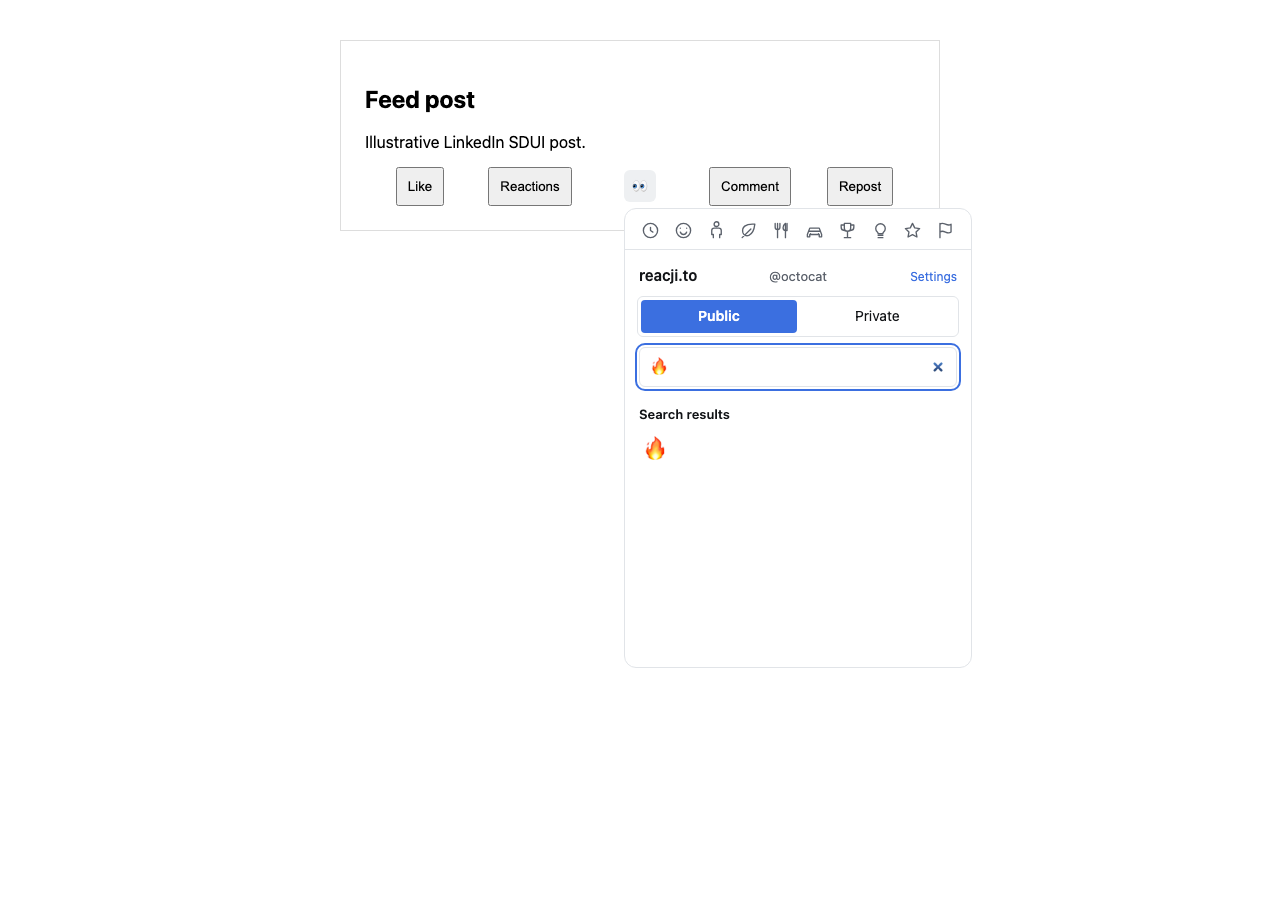
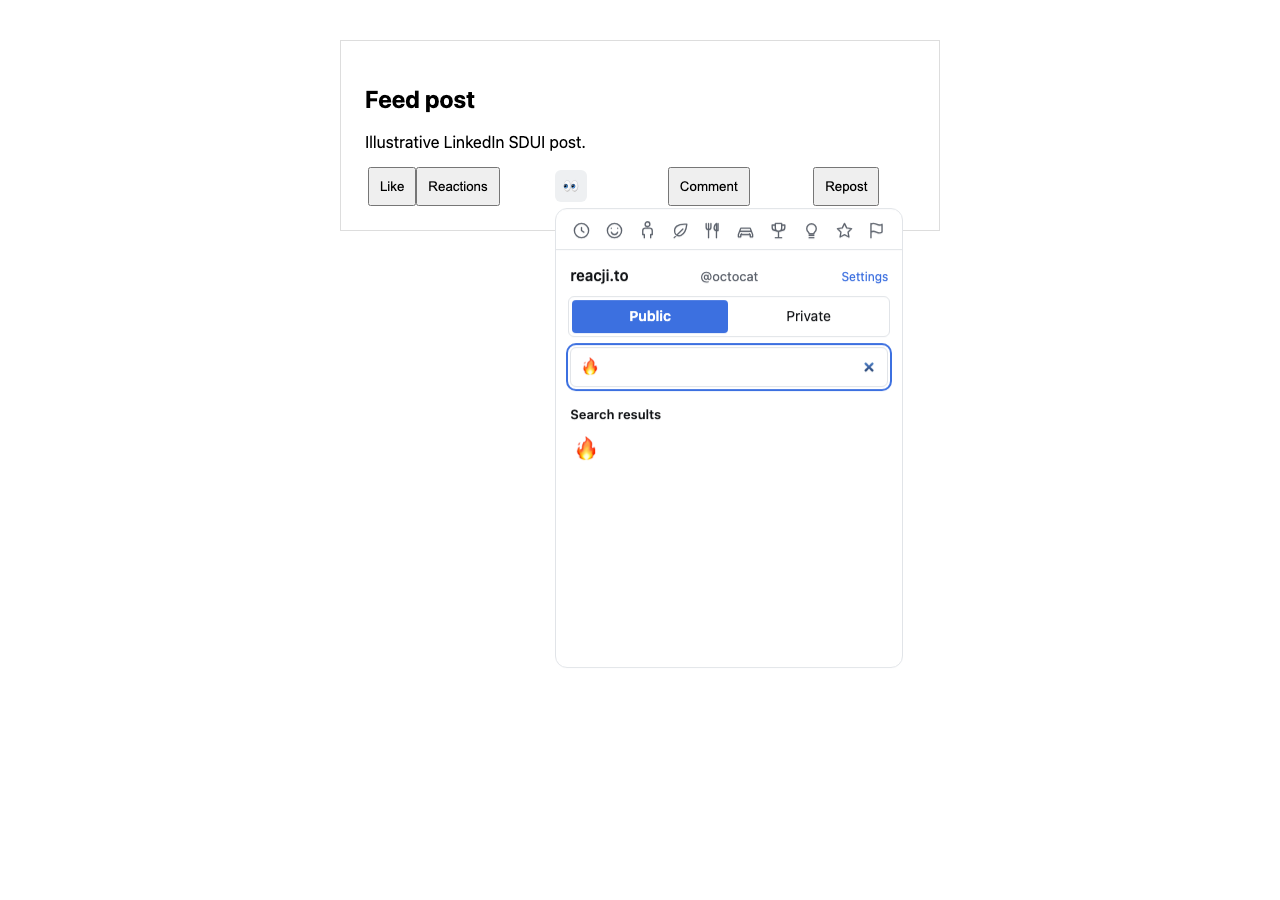
Release 0.4.3 with public reaction mirrors and LinkedIn alignment

diff --git a/tests/browser/oauth.spec.js b/tests/browser/oauth.spec.js
@@ -16,6 +16,7 @@ test('real extension completes device OAuth, resumes after reload, and submits w
   const oauthRequests = [], submissions = [];
   let siteUsername = 'octocat';
   let approved = false;
+  let mirrorFails = false;
   try {
     await context.route('https://github.com/**', route => {
       const url = new URL(route.request().url());
@@ -53,7 +54,8 @@ test('real extension completes device OAuth, resumes after reload, and submits w
       if (path === '/v1/private/validate') return route.fulfill({ json: { actor: { id: 42, login: 'octocat' }, repository: { name: body.repository } } });
       if (path === '/v1/private/read') return route.fulfill({ json: { version: 1, commit: body.commit, users: {} } });
       submissions.push(body);
-      return route.fulfill({ json: { actor: { id: 42, login: 'octocat' }, document: { version: 1, commit: body.event.commit, users: { 42: { login: 'octocat', emoji: body.event.emoji } } } } });
+      return route.fulfill({ json: { actor: { id: 42, login: 'octocat' }, document: { version: 1, commit: body.event.commit, users: { 42: { login: 'octocat', emoji: body.event.emoji } } },
+        ...(mirrorFails && body.visibility === 'public' && body.mirrorPublic ? { mirror: { status: 'failed', error: 'Public reaction saved, but its private-repo copy failed. Check settings.' } } : {}) } });
     });
     await context.route('https://raw.githubusercontent.com/**', route => route.fulfill({ status: 404, body: '' }));
     await context.route('https://dev-null.sh/**', route => new URL(route.request().url()).pathname === '/@octocat/following' ? route.fulfill({contentType:'text/html',body:`<script data-page="app" type="application/json">${JSON.stringify({component:'user/connections',props:{type:'following',user:{username:'octocat'},users:{data:[{username:'friend',avatar_url:'https://avatars.githubusercontent.com/u/99?v=4'}],next_page_url:null}}})}</script>`}) : route.request().headers()['x-inertia'] ? route.fulfill({ json: { props: { auth: { user: siteUsername ? { username: siteUsername } : null } } } }) : route.fulfill({ path: 'fixtures/feed.html', contentType: 'text/html' }));
@@ -108,6 +110,8 @@ test('real extension completes device OAuth, resumes after reload, and submits w
     await page.getByRole('searchbox').press('Escape');
     expect(submissions[0].event.emoji).toBe('🚀');
     expect(submissions[0].visibility).toBe('public');
+    expect(submissions[0].mirrorPublic).toBe(true);
+    expect(submissions[0].repository).toBeUndefined();
     expect(oauthRequests.filter(value => value === '/login/device/code')).toHaveLength(1);
     // Site sign-out and account changes must be checked again immediately before every mutation.
     siteUsername = 'other';
@@ -126,6 +130,13 @@ test('real extension completes device OAuth, resumes after reload, and submits w
     await page.getByLabel('Private repository').selectOption('octocat/reacji-to-private');
     await page.getByRole('button', { name: 'Use this repository', exact: true }).click();
     await expect(page.getByText('Private reactions are ready.', { exact: false })).toBeVisible();
+    await expect(page.locator('#mirror-public')).toBeChecked();
+    await expect(page.locator('#mirror-status')).toContainText('public/');
+    await page.locator('#private-setup').screenshot({ path: '.impeccable/review/mirror-settings-desktop.png' });
+    await page.setViewportSize({ width: 390, height: 844 });
+    expect(await page.evaluate(() => document.documentElement.scrollWidth)).toBeLessThanOrEqual(390);
+    await page.locator('#private-setup').screenshot({ path: '.impeccable/review/mirror-settings-mobile.png' });
+    await page.setViewportSize({ width: 1280, height: 900 });
     await page.goto('https://dev-null.sh/');
     await unreactedPost.getByRole('button', { name: 'React with an emoji', exact: true }).click();
     await page.getByRole('button', { name: 'Private', exact: true }).click();
@@ -134,15 +145,34 @@ test('real extension completes device OAuth, resumes after reload, and submits w
     await expect.poll(()=>submissions.length).toBe(2);
     expect(submissions[1].repository).toBe('octocat/reacji-to-private');
     expect(submissions[1].visibility).toBe('private');
+    expect(submissions[1].mirrorPublic).toBeUndefined();
     await context.route('https://x.com/**', route => route.fulfill({ contentType: 'text/html', body: '<meta charset="utf-8"><article data-testid="tweet"><a href="/person/status/123456789"><time>Today</time></a><div role="group"><button data-testid="reply">Reply</button><button data-testid="like">Like</button></div></article>' }));
     siteUsername = null; // X reactions must not require a dev-null session.
+    mirrorFails = true;
     await page.goto('https://x.com/home');
     await page.getByRole('button', { name: 'React with an emoji', exact: true }).click();
+    await page.getByRole('button', { name: 'Public', exact: true }).click();
     await page.getByRole('searchbox').fill('🚀'); await page.getByRole('button', { name: 'rocket', exact: true }).click();
     await expect(page.getByRole('button', { name: /🚀, 1 reaction, yours/ })).toBeVisible();
     await expect.poll(()=>submissions.length).toBe(3);
     expect(submissions[2].event.post).toEqual({ platform: 'x', id: '123456789' });
     expect(submissions[2].username).toBeUndefined();
+    expect(submissions[2].repository).toBe('octocat/reacji-to-private');
+    expect(submissions[2].mirrorPublic).toBe(true);
+    await expect(page.getByText('Public reaction saved, but its private-repo copy failed. Check settings.', { exact: true })).toBeVisible();
+    await expect(page.getByRole('button', { name: /🚀, 1 reaction, yours/ })).toBeVisible();
+    await page.goto(url);
+    await expect(page.locator('#mirror-status')).toContainText('private-repo copy failed');
+    await page.locator('#mirror-public').uncheck();
+    await expect(page.locator('#mirror-status')).toContainText('Mirroring is off');
+    await page.reload();
+    await expect(page.locator('#mirror-public')).not.toBeChecked();
+    await page.goto('https://x.com/home');
+    await page.getByRole('button', { name: /🚀, 1 reaction, yours/ }).click();
+    await expect.poll(() => submissions.length).toBe(4);
+    expect(submissions[3].mirrorPublic).toBe(false);
+    expect(submissions[3].event.emoji).toBeNull();
+    expect(await worker.evaluate(async () => (await chrome.storage.local.get('mirrorPublicPreferences')).mirrorPublicPreferences)).toEqual({ 42: false });
     await page.goto(url); await page.getByRole('button', { name: 'Disconnect', exact: true }).click();
     await expect(page.getByText('Not connected.', { exact: false })).toBeVisible();
   } finally { await context.close(); await rm(root, { recursive: true, force: true }); }

diff --git a/src/background.js b/src/background.js
@@ -126,9 +126,10 @@ async function handle(message, sender) {
     checkUpdatesQuietly();
     const state = await auth.status();
     if (!trusted) delete state.pending;
-    const { privateRepositories = {} } = await chrome.storage.local.get('privateRepositories');
+    const { privateRepositories = {}, mirrorPublicPreferences = {}, mirrorErrors = {} } = await chrome.storage.local.get(['privateRepositories', 'mirrorPublicPreferences', 'mirrorErrors']);
     const view = await audienceState();
-    return { ...state, audience: view.audience, followingError: view.followingError, followingCount: view.following ? view.following.ids.length + view.following.logins.length : null, repository: REPOSITORY, privateRepository: privateRepositories[state.actor?.id] || null };
+    return { ...state, audience: view.audience, followingError: view.followingError, followingCount: view.following ? view.following.ids.length + view.following.logins.length : null, repository: REPOSITORY, privateRepository: privateRepositories[state.actor?.id] || null,
+      mirrorPublic: mirrorPublicPreferences[state.actor?.id] !== false, mirrorError: mirrorErrors[state.actor?.id] || null };
   }
   if (message.type === 'options') { await chrome.runtime.openOptionsPage(); return {}; }
   if (message.type === 'audience-save' && trusted) {
@@ -179,6 +180,14 @@ async function handle(message, sender) {
     await chrome.storage.local.set({ privateRepositories });
     return { repository: result.repository.name };
   }
+  if (message.type === 'mirror-public-save' && trusted) {
+    if (typeof message.enabled !== 'boolean') throw new Error('Choose whether to mirror public reactions.');
+    const actor = await api('/user', await requireToken());
+    const { mirrorPublicPreferences = {} } = await chrome.storage.local.get('mirrorPublicPreferences');
+    mirrorPublicPreferences[actor.id] = message.enabled;
+    await chrome.storage.local.set({ mirrorPublicPreferences });
+    return { enabled: message.enabled };
+  }
   if (message.type === 'read') {
     const post = content ? senderPost(message.post || message.commit, site, platform) : postRef(message.post || message.commit);
     await verifyPagePost(post);
@@ -195,13 +204,21 @@ async function handle(message, sender) {
       const siteUser = await api(`/users/${encodeURIComponent(message.username)}`, token);
       if (actor.id !== siteUser.id || (message.githubId && actor.id !== message.githubId)) throw new Error(`GitHub is @${actor.login}, but dev-null is @${message.username}. Sign in with the same account.`);
     }
-    const { privateRepositories = {} } = await chrome.storage.local.get('privateRepositories');
+    const { privateRepositories = {}, mirrorPublicPreferences = {} } = await chrome.storage.local.get(['privateRepositories', 'mirrorPublicPreferences']);
     const repository = privateRepositories[actor.id];
     if (message.type === 'private-read') return service('/v1/private/read', token, { username: message.username, githubId: message.githubId, repository, post });
     const event = parseReaction(message.event);
     if (!['public', 'private'].includes(message.visibility)) throw new Error('Choose Public or Private.');
     const result = await service('/v1/react', token, { event, visibility: message.visibility, username: message.username, githubId: message.githubId,
-      ...(message.visibility === 'private' ? { repository } : {}), requestId: crypto.randomUUID() });
+      repository, ...(message.visibility === 'public' ? { mirrorPublic: mirrorPublicPreferences[actor.id] !== false } : {}), requestId: crypto.randomUUID() });
+    if (result.mirror) {
+      try {
+        const { mirrorErrors = {} } = await chrome.storage.local.get('mirrorErrors');
+        if (result.mirror.status === 'failed') mirrorErrors[actor.id] = result.mirror.error;
+        else delete mirrorErrors[actor.id];
+        await chrome.storage.local.set({ mirrorErrors });
+      } catch { /* A saved reaction must survive preference-storage errors. */ }
+    }
     if (event.emoji && !event.moveFrom && message.trackUsage !== false) {
       // A preference-storage failure must never roll back a committed reaction.
       try {

diff --git a/tests/browser/platforms.spec.js b/tests/browser/platforms.spec.js
@@ -74,6 +74,46 @@ test('LinkedIn SDUI resolves the canonical post and updates recycled cards', asy
   expect((await page.evaluate(()=>sent.filter(m=>m.type==='react').at(-1))).event.post.id).toBe('7517120066396717999');
 });
 
+test('LinkedIn SDUI keeps the reaction-menu overlay with the thumb and aligns the icon row', async ({page}) => {
+  const icon = '<svg viewBox="0 0 24 24" width="24" height="24"><circle cx="12" cy="12" r="8"/></svg>';
+  await sduiFeed(page, `<style>
+    body{max-width:600px;margin:24px auto} [role=listitem]{padding:0 12px}
+    .actions{align-items:center;height:48px;gap:0}
+    .actions button,.actions a{display:flex;align-items:center;gap:4px;border:0;background:none;color:#555;padding:6px;font:14px system-ui}
+    .like-action{position:relative;display:flex}
+    .actions [aria-label="Open reactions menu"]{position:absolute;inset:0;opacity:0}
+    .summary svg{width:12px;height:12px;margin-left:-4px}
+    </style><div role="listitem" componentkey="update-card-focus123"><h2>Feed post</h2><p>Illustrative LinkedIn action row</p>
+    <div class="actions"><div class="like-action"><button aria-label="Reaction button state: no reaction">${icon}<span>10</span></button><button aria-label="Open reactions menu"></button></div>
+    <button aria-label="Comment">${icon}</button><button aria-label="Repost">${icon}<span>2</span></button><a aria-label="Send" href="#send">${icon}</a>
+    <a class="summary" href="#reactions" aria-label="10 reactions">${icon}${icon}${icon}</a></div>
+    <div componentkey="${sduiKey('7517120023304282112')}"></div></div>`);
+  const eyes = page.getByRole('button', { name: 'React with an emoji', exact: true });
+  const metrics = () => page.locator('.actions').evaluate(row => {
+    const elements = [row.querySelector('.like-action svg'), row.querySelector('reacji-to-reactions').shadowRoot.querySelector('.reaction-slot'),
+      ...[...row.querySelectorAll(':scope > button,:scope > a:not(.summary)')].map(el => el.querySelector('svg'))];
+    return elements.map(el => { const b = el.getBoundingClientRect(); return { x:b.x+b.width/2, y:b.y+b.height/2 }; });
+  });
+  for (const width of [1280, 760, 390, 320]) {
+    await page.setViewportSize({width, height:900});
+    await expect(eyes).toBeVisible();
+    await expect.poll(async () => {
+      const m = await metrics(), gaps = m.slice(1).map((p,i) => p.x-m[i].x);
+      return Math.max(Math.max(...gaps)-Math.min(...gaps), Math.max(...m.map(p=>p.y))-Math.min(...m.map(p=>p.y)));
+    }).toBeLessThan(1);
+    await expect(page.getByRole('button', {name:'Open reactions menu',exact:true})).toHaveCSS('position','absolute');
+    await expect(page.locator('.like-action')).toHaveCSS('display','flex');
+    const before = await metrics(), box = await eyes.boundingBox();
+    await eyes.click(); await page.getByRole('searchbox').fill('😀'); await page.getByRole('button',{name:'grinning face',exact:true}).click();
+    const selected = page.locator('.chip[aria-pressed=true]');
+    await expect.poll(() => selected.boundingBox()).toEqual(box);
+    expect(await metrics()).toEqual(before);
+    await page.locator('[role=listitem]').screenshot({path:`artifacts/linkedin-sdui-alignment-${width}.png`});
+    await selected.click(); await expect(eyes).toBeVisible();
+    expect(await page.evaluate(() => document.documentElement.scrollWidth)).toBeLessThanOrEqual(width);
+  }
+});
+
 test('LinkedIn SDUI resolves offscreen posts only when scrolled into view', async ({page}) => {
   await sduiFeed(page, sduiPost('7517120023304282112','margin-top:1600px'));
   expect(await page.evaluate(()=>sent.filter(m=>m.type==='linkedin-resolve').length)).toBe(0);

diff --git a/src/options.js b/src/options.js
@@ -46,6 +46,9 @@ async function refresh() {
     document.querySelector('#audience-status').textContent = state.followingError || (state.audience === 'following' ? `Showing your reactions and ${state.followingCount ?? 0} people you follow.` : 'Showing everyone’s public reactions.');
     document.querySelector('#private-setup').hidden = !state.connected;
     document.querySelector('#private-status').textContent = state.privateRepository ? `Using ${state.privateRepository}.` : 'Choose a repository to enable Private reactions.';
+    document.querySelector('#mirror-public').checked = state.mirrorPublic !== false;
+    document.querySelector('#mirror-status').textContent = state.mirrorPublic === false ? 'Mirroring is off. Existing copies stay in your repository.'
+      : state.mirrorError || (state.privateRepository ? 'New public reactions and changes will be copied to public/.' : 'Choose a private repository to start mirroring.');
     disconnect.hidden = !state.connected && !state.actor;
     connect.textContent = state.connected ? 'Reconnect GitHub' : 'Connect GitHub';
     if (state.pending) return showPending(state.pending);
@@ -103,6 +106,18 @@ document.querySelector('#following-refresh').addEventListener('click', async () 
   catch (error) { audienceStatus.textContent = error.message; }
 });
 
+const mirrorPublic = document.querySelector('#mirror-public');
+mirrorPublic.addEventListener('change', async () => {
+  const enabled = mirrorPublic.checked;
+  mirrorPublic.disabled = true;
+  document.querySelector('#mirror-status').textContent = 'Saving…';
+  try { await send({ type: 'mirror-public-save', enabled }); await refresh(); }
+  catch (error) {
+    mirrorPublic.checked = !enabled;
+    document.querySelector('#mirror-status').textContent = error.message;
+  } finally { mirrorPublic.disabled = false; }
+});
+
 const privateStatus = document.querySelector('#private-status');
 const repositorySelect = document.querySelector('#private-repository');
 for (const action of ['private-create', 'private-install']) document.querySelector(`#${action}`).addEventListener('click', () => send({ type: action }).catch(error => { privateStatus.textContent = error.message; }));
@@ -123,7 +138,7 @@ document.querySelector('#private-save').addEventListener('click', () => {
   repositoryQueue = repositoryQueue.catch(() => {}).then(async () => {
     try {
       const result = await send({ type: 'private-save', repository });
-      if (version === repositoryVersion) privateStatus.textContent = `Using ${result.repository}. Private reactions are ready.`;
+      if (version === repositoryVersion) { await refresh(); privateStatus.textContent = `Using ${result.repository}. Private reactions are ready.`; }
     } catch (error) {
       if (version === repositoryVersion) { await refresh(); privateStatus.textContent = error.message; }
     }

diff --git a/src/action-layout.js b/src/action-layout.js
@@ -8,7 +8,7 @@ const css = `
 [data-reacji-actions-compact] [data-reacji-actions-action]{display:flex!important;flex-direction:column!important;align-items:center!important;justify-content:flex-start!important;width:100%!important;max-width:100%!important;padding:0 2px!important;gap:0!important;white-space:normal!important;overflow-wrap:normal;font-size:12px!important;line-height:1.4!important}
 [data-reacji-actions-compact] [data-reacji-actions-action] svg{flex:none;margin:6px 0!important}
 [data-reacji-actions-compact] [data-reacji-actions-action] span{max-width:100%;min-width:0}
-[data-reacji-actions-row] reacji-to-reactions{justify-self:center;min-width:0;position:relative;left:var(--reacji-actions-shift,0px)}
+[data-reacji-actions-row] reacji-to-reactions{display:flex;align-items:center;justify-self:center;min-width:0;position:relative;left:var(--reacji-actions-shift,0px)}
 `;
 export function layoutActions(anchor, host, article) {
   const row = anchor.parentElement;
@@ -21,8 +21,14 @@ export function layoutActions(anchor, host, article) {
   // Restore wrapper display before measuring visibility, including responsive hides.
   for (const el of row.querySelectorAll('[data-reacji-actions-wrapper]')) el.removeAttribute('data-reacji-actions-wrapper');
   row.setAttribute('data-reacji-actions-row', '');
+  // LinkedIn's SDUI thumb and its transparent menu hit target are one action.
+  // Keep their positioning wrapper intact instead of making the menu another
+  // grid column (and incorrectly switching the icon-only row to stacked labels).
+  const linkedInReaction = anchor.querySelector('button[aria-label^="Reaction button state:"]');
   const controls = [...row.querySelectorAll('button,a[href],[role="button"]')]
-    .filter(el => !el.parentElement.closest('button,a[href],[role="button"]') && el.getClientRects().length);
+    .filter(el => !el.parentElement.closest('button,a[href],[role="button"]') && el.getClientRects().length)
+    .filter(el => !linkedInReaction || !anchor.contains(el) || el === linkedInReaction)
+    .map(el => el === linkedInReaction ? anchor : el);
   if (!controls.some(control => anchor.contains(control)) && anchor.getClientRects().length) controls.push(anchor);
   for (const control of controls) {
     control.setAttribute('data-reacji-actions-action', '');
@@ -31,7 +37,7 @@ export function layoutActions(anchor, host, article) {
     }
   }
   // Labels wrap beneath the icons when equal slots become too narrow.
-  const compact = row.getBoundingClientRect().width / (controls.length + 1) < 80;
+  const compact = !linkedInReaction && row.getBoundingClientRect().width / (controls.length + 1) < 80;
   row.toggleAttribute('data-reacji-actions-compact', compact);
   host.toggleAttribute('data-compact', compact);
   // Center the icon itself, not the icon-plus-count box. Otherwise unequal

diff --git a/src/options.html b/src/options.html
@@ -40,6 +40,9 @@
 <select id="private-repository"><option value="">Choose a repository</option></select>
 <div class="actions"><button id="private-refresh" type="button" class="secondary">Refresh repositories</button><button id="private-save" type="button">Use this repository</button></div>
 <p id="private-status" role="status" aria-live="polite"></p>
+<label class="checkbox"><input id="mirror-public" type="checkbox" checked aria-describedby="mirror-help"> Mirror my public reactions to this private repo</label>
+<p id="mirror-help" class="help">On by default. Once a repository is selected, new public reactions and changes are also copied to its <code>public/</code> folder so you can run your own automations. Private reactions stay in <code>data/</code>. Public reactions remain public. Existing history is not imported; turning this off leaves existing copies in place.</p>
+<p id="mirror-status" role="status" aria-live="polite" class="help"></p>
 </section>
 </section>
 <section aria-labelledby="how-title"><h2 id="how-title">What happens when you react</h2>

diff --git a/src/reaction-app.js b/src/reaction-app.js
@@ -221,6 +221,7 @@ function choose(record, emoji, placement = record.placement, { trackUsage = true
         else r.data = savedDocument;
       }
       if (optimistic.get(key) === pending) optimistic.delete(key);
+      if (result.mirror?.status === 'failed') notify(result.mirror.error);
     } catch (error) {
       // A failure for an earlier click must never undo a newer choice.
       if (optimistic.get(key) === pending) {

diff --git a/SETUP.md b/SETUP.md
@@ -6,7 +6,7 @@ Give your agent this instruction:
 
 > Set up reacji.to for me using https://github.com/reacji-to/reacji-to/blob/main/SETUP.md. Install the extension in my browser, connect my GitHub account, create and connect a dedicated private repository for my reactions, and verify a private reaction. Reuse any working setup I already have. Explain what I can use it for and tell me when you need me to complete a browser or GitHub step.
 
-After setup, your agent can also help turn private reactions into bookmarks, reading queues, or other automations using GitHub Actions. See [step 7](#7-offer-automations-with-github-actions).
+After setup, your agent can also help turn private reactions and mirrored public reactions into bookmarks, reading queues, or other automations using GitHub Actions. See [step 7](#7-offer-automations-with-github-actions).
 
 ## What you can use it for
 
@@ -34,6 +34,7 @@ Use these defaults unless the user asks otherwise:
 - **Private storage:** create `YOUR_HANDLE/reacji-to-private`, with **Private** visibility and an initial README. Reuse an existing dedicated reactions repository if one is already configured. Do not repurpose an unrelated repository with the same name.
 - **First reaction:** a Private 🧪 on `https://example.com/`. Verify the save, then remove the test reaction and verify removal. Its history will remain in the private repository.
 - **Public reactions:** explain how to use them, but do not publish a test reaction unless the user has chosen to do so.
+- **Public mirroring:** leave **Mirror my public reactions to this private repo** enabled (on by default). The user's public saves also update `public/data/` in the selected private repo, separate from private reactions in `data/`. Honor an existing opt-out. These copies do not make the original reactions private.
 
 A request to follow this full guide includes creating the dedicated private repository. Do not make the user work out repository creation themselves if you have tools to do it. If they explicitly want **public-only** setup, skip private repository creation and app installation; neither is required for Public reactions.
 
@@ -117,6 +118,7 @@ Creating the repo is not enough. Complete both the GitHub App installation and t
 5. Return to extension settings and click **Refresh repositories**.
 6. Choose `YOUR_HANDLE/reacji-to-private` (or the name you actually created) in **Private repository**.
 7. Click **Use this repository**.
+8. Confirm **Mirror my public reactions to this private repo** is checked unless the user opted out. It starts copying on subsequent public saves; selecting a repository does not import historical reactions. Turning it off leaves existing copies in place.
 
 **Verify:** settings say **Using OWNER/REPO. Private reactions are ready.** After reopening settings, the shorter **Using OWNER/REPO.** status is normal. An empty repository list or merely seeing the repo on GitHub does not mean this step is complete.
 
@@ -145,6 +147,7 @@ Give a short walkthrough using the use cases above:
 - **To change or remove a reaction:** reopen its picker in the same visibility mode. Choose another emoji to replace it, or the same emoji to remove it.
 - **To choose whose public reactions appear:** in settings, under **Whose reactions you see**, choose **Everyone** or **People I follow on dev-null**. Use **Refresh following list** after changing follows. This filters what the user sees; it does not limit who can see their Public reactions.
 - **To share a profile:** use `https://reacji.to/YOUR_GITHUB_HANDLE`. Only public reactions appear there.
+- **To automate public reactions too:** keep mirroring enabled in settings and watch `public/data/` in the private repo. Copies contain only your public reactions for each post/page. Private reactions remain in `data/`.
 
 Explain these details before the user starts marking their own pages:
 
@@ -155,6 +158,8 @@ Explain these details before the user starts marking their own pages:
 ## 7. Offer automations with GitHub Actions
 
 **Agent: after private setup works, offer to write an automation for the user.** Explain that a private reaction can be a command: choose an emoji in the browser, and a GitHub Action processes the resulting commit in their private repository. Automations run on GitHub; the user's computer does not need to stay on after the reaction is saved.
+
+The same automations can consume mirrored public reactions in the separate `public/` folder. Use both path filters below for a combined automation, or only the relevant folder when the user wants one visibility mode. Mirroring is enabled by default once a private repository is connected. Public saves and private copies are separate commits: a copy can fail while the public save succeeds. The extension reports the error; after fixing repository/app access, the next public save on that post/page reconciles its current state, including removals and moves. There is no automatic historical import or background retry. Automations should tolerate delayed copies and missed intermediate states.
 
 Offer a few concrete choices:
 
@@ -181,13 +186,14 @@ If the user already requested an automation, proceed with that request. Otherwis
 4. Start with the working trigger check below. Replace `main` with the actual default branch if different. It runs after pushes that change reaction JSON, and it can also be run manually from the Actions tab.
 
 ```yaml
-name: Private reaction automation
+name: Reaction automation
 
 on:
   push:
     branches: [main]
     paths:
       - 'data/**/*.json'
+      - 'public/data/**/*.json'
   workflow_dispatch:
 
 permissions:
@@ -207,7 +213,7 @@ jobs:
           import json
           from pathlib import Path
 
-          files = sorted(Path("data").rglob("*.json"))
+          files = sorted(Path("data").rglob("*.json")) + sorted(Path("public/data").rglob("*.json"))
           for path in files:
               json.loads(path.read_text(encoding="utf-8"))
           print(f"Read {len(files)} reaction documents; trigger works.")
@@ -216,9 +222,11 @@ jobs:
 
 This starter validates the trigger and JSON access; **it does not create bookmarks yet**. The agent's next task is to write the chosen automation script, for example `scripts/update_bookmarks.py`, and replace the validation step with a call to it. Commit both the script and workflow to the private repository.
 
-Private saves use a GitHub App installation token, so their commits can trigger `push` workflows. Workflow commits made with GitHub's built-in `GITHUB_TOKEN` normally do not trigger another `push` workflow. Keep the `data/**/*.json` filter so changes to generated lists do not trigger this automation either. See [GitHub's workflow trigger documentation](https://docs.github.com/en/actions/how-tos/write-workflows/choose-when-workflows-run/trigger-a-workflow).
+Private saves and public mirror copies use a GitHub App installation token, so their commits can trigger `push` workflows. Workflow commits made with GitHub's built-in `GITHUB_TOKEN` normally do not trigger another `push` workflow. Keep the `data/**/*.json` and `public/data/**/*.json` filters so changes to generated lists do not trigger this automation either. See [GitHub's workflow trigger documentation](https://docs.github.com/en/actions/how-tos/write-workflows/choose-when-workflows-run/trigger-a-workflow).
 
 ### Write the chosen automation
+
+Read private documents from `data/` and mirrored public documents from `public/data/`. The relative layout and reaction schema are the same; mirrors also include `visibility: "public"`. Only the owner's public reactions are copied, including their placements. Keep both folders read-only for automation scripts; put generated output elsewhere. Include visibility in the reaction key when treating a public and private reaction on the same target as separate actions, or deliberately deduplicate by URL for a combined bookmark list. A file can remain empty after the last reaction is removed.
 
 - **Read the saved data, not the commit message.** Current paths are `data/web/<page-hash>.json`, `data/x/<post-id>.json`, `data/linkedin/<post-id>.json`, and `data/<dev-null-id>.json`. Web reactions are under `placements[placementId].users[githubUserId]`; their excerpts are in `placements[placementId].anchor.quote` and URL in `post.url`. Post reactions use `users[githubUserId]`. A saved user entry includes `emoji`, `login`, `requestId`, and `at`. Verify these fields against the repository before coding.
 - **For bookmarks, rebuild from current state.** Collect the user's active 🔖 reactions into a stable, sorted list. Deduplicate by URL for one bookmark per page, or by platform/post/placement/user for separate marked passages. Removing or changing an emoji must update the list too; do not append every commit forever. For social posts, use the platform's post URL rather than assuming every record has `post.url`. A complete rebuild should produce identical output when rerun on the same input.
@@ -242,6 +250,7 @@ Extension version and installed folder: …
 Connected GitHub account: @…
 Private repository: https://github.com/…/… (verified Private)
 App access and extension repository selection: verified / remaining step
+Public mirroring: enabled / opted out / unavailable in installed release
 Private test: saved, survived reload, commit verified, removed / remaining step
 Automation: offered / skipped / workflow, emoji rule, output link, verification
 Public profile: https://reacji.to/… (empty until you add public reactions)
@@ -260,6 +269,7 @@ For public-only setup, mark the private steps as skipped by request. Include one
 | Wrong GitHub account or dev-null mismatch | Check the extension's connected handle and dev-null session. Use **Disconnect**, then **Connect GitHub** with the intended account. X and LinkedIn sign-ins do not change the extension's identity. |
 | Private repository does not appear | Check that creation finished, visibility is Private, the connected personal account owns it, and it is selected in the reacji.to GitHub App installation. Then **Refresh repositories**, select it, and click **Use this repository**. |
 | Private save fails | Recheck the selected repo and app access. A repository made public is rejected. Read the displayed error; do not broaden access to all repositories or create a token as a workaround. |
+| Public save succeeded but its private copy failed | Check the mirroring setting, selected private repository, and app access. The public save remains successful. After correcting access, the next public save on that post/page retries its current state. Untouched pages are not backfilled. |
 | Automation does not run after a private save | Check that the workflow is on the correct branch in the private repo, Actions is enabled, and the new commit changed a path matched by the filter. Check Actions usage limits and workflow errors. Run it manually to distinguish a trigger problem from a script failure. |
 | Service unavailable | Check whether [reacji.to](https://reacji.to/) loads, retry once, and check connection status. If it persists, report the error and extension version without credentials or private page text. |
 | Reactions or follows seem stale | Visible pages normally refresh reaction data within 30 seconds. The following list is cached for five minutes; use **Refresh following list** to update it sooner. |

diff --git a/README.md b/README.md
@@ -23,7 +23,8 @@ For a complete walkthrough you can give to your agent, see [Set up reacji.to](SE
 3. Open the extension settings and **Connect GitHub**. Enter the displayed code on GitHub and authorize **reacji-to**. No personal access token is needed.
 4. For Private reactions, choose **Choose repositories on GitHub**, select **Only select repositories**, and install on your private reactions repo. **Create a new private repo** opens GitHub’s own creation form; choose Private, then install the app on it.
 5. Refresh the repository list in extension settings, select your private repo, and save.
-6. Reload your open webpages. Hold Option/Alt and click a location, select Public or Private, and choose an emoji.
+6. **Mirror my public reactions to this private repo** is on by default. Public saves also copy your public reactions for that post/page to `public/data/` in the selected repo, separate from private reactions in `data/`. You can turn mirroring off in settings.
+7. Reload your open webpages. Hold Option/Alt and click a location, select Public or Private, and choose an emoji.
 
 The extension checks for new stable GitHub releases on startup and during use, at most every 12 hours. A toolbar ↑ badge and an **Update available** notice in settings link to the download. You can also use **Check for updates** in settings. Unpacked extensions cannot install updates themselves: replace their files, click Reload on the extensions page, and reload open webpages. Checks use public release metadata without your GitHub token. Browser settings pages, the extension store, and other browser-protected pages cannot host reactions.
 
@@ -32,6 +33,7 @@ The extension checks for new stable GitHub releases on startup and during use, a
 - One JSON file per dev-null/X/LinkedIn post.
 - One JSON file per webpage URL, identified by a SHA-256 hash. Each placement stores its DOM path, element type, relative position, and up to 160 characters of visible text. Form-field values are never captured.
 - Public writes update the post/page and the account’s public profile index in one Git commit. Private writes never touch the public repo or profile.
+- With mirroring enabled and a private repo selected, a separate commit copies only your public reactions into `public/`. Edits, moves, and removals reconcile that post/page; a failed copy leaves the public save intact and shows an error. Check repository/app access, then make a public save on that post/page to retry. There is no background retry or historical backfill, and disabling mirroring leaves existing copies in place.
 - URL fragments used as SPA routes are preserved; ordinary section fragments and common tracking parameters are omitted. Meaningful query parameters remain part of the saved URL.
 
 Placements resolve by element path and text. If that path changes, a unique matching excerpt can recover it. Ambiguous or missing targets stay hidden. Canvas internals, closed shadow roots, and content that changes completely cannot reliably be anchored. The extension checks visible pages every 30 seconds; the public dev-null following list is cached for five minutes.
@@ -39,6 +41,8 @@ Placements resolve by element path and text. If that path changes, a unique matc
 One reaction per account per post or placement **in each visibility mode**. Pick another emoji to replace it. To clear a webpage reaction, Option/Alt-click your emoji again, or open it and choose **Clear reaction**. Option/Alt-clicking the same page target also clears your existing reaction. Picking your existing emoji still removes it. Public and Private are independent stores; clearing affects only the selected mode, and changing the switch never migrates an existing reaction. Git history preserves removed reactions. The following filter controls what you see, not who can see your public reactions.
 
 ## Identity and privacy
+
+For automation setup and the JSON layout, see the [agent setup walkthrough](SETUP.md#7-offer-automations-with-github-actions). Watch `data/**` for private reactions and `public/data/**` for your mirrored public reactions in your own repository.
 
 OAuth credentials stay in extension-only storage and go only to GitHub and `https://reacji.to`. The Worker independently verifies GitHub identity and uses an installation token narrowed to a single repository for commits. The app private key stays in a Cloudflare secret.
 
